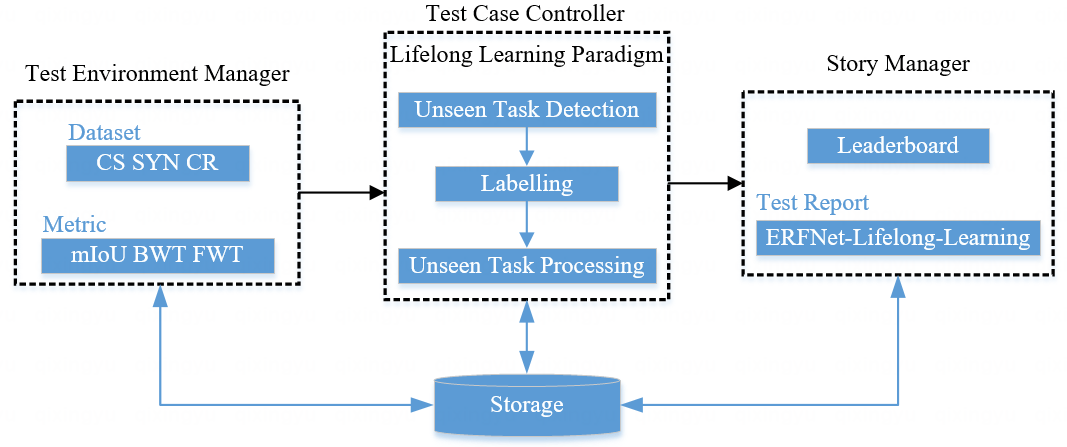
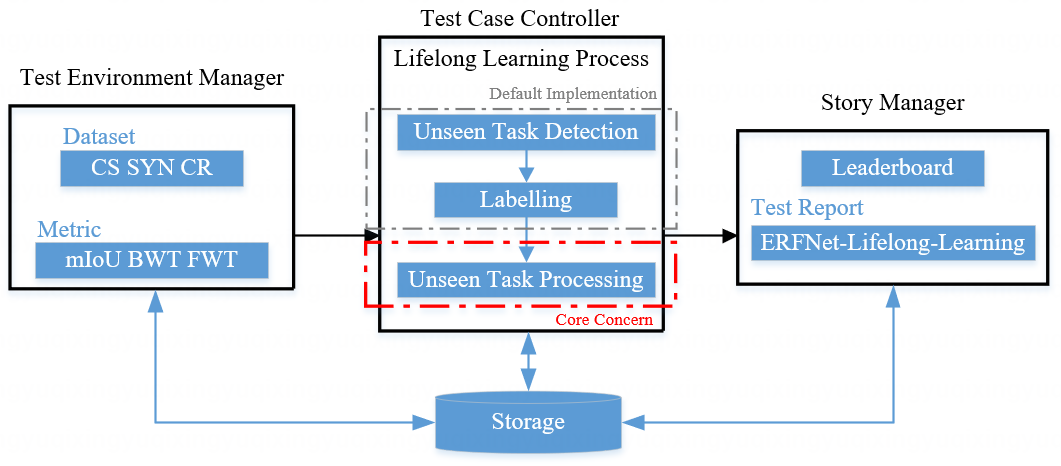
final version of proposal 	modified:   docs/proposals/algorithms/lifelong-learning/Implementation of a Class Incremental Learning Algorithm Evaluation System based on Ianvs.md 	modified:   docs/proposals/algorithms/lifelong-learning/images/OSPP_MDIL-SS_11.png 	modified:   docs/proposals/algorithms/l

Changed region(s): [[0.0, 0.0, 0.9953, 0.9888], [0.7776, 0.1163, 0.902, 0.1745]]

diff --git a/docs/proposals/algorithms/lifelong-learning/Implementation of a Class Incremental Learning Algorithm Evaluation System based on Ianvs.md b/docs/proposals/algorithms/lifelong-learning/Implementation of a Class Incremental Learning Algorithm Evaluation System based on Ianvs.md
@@ -60,29 +60,38 @@ Targeting users include
 
 ### 3.1 Overall Design
 
-The [diagram](https://github.com/kubeedge/sedna/blob/main/docs/proposals/lifelong-learning/unstructured-lifelong-learning.md) below shows the workflow of lifelong learning. The evaluation system developed in this project mainly aims at testing the ability of the model to process unknown tasks, namely the red box part.
 
+First, let's introduce the training process for lifelong learning: 
+- When the model enters a data domain (e.g., the Cloud-Robotic dataset) for training, the first step is `Unseen Task Detection`. This is done to assess the value of the domain data for updating the model. We consider that samples of unknown tasks have learning value, while samples from known tasks are not worth annotating and using for model training, meaning they provide no value for model updating. 
+- Once samples from unknown tasks are detected, in order to utilize these samples for model updating, we need to label them (through manual labelling or assisted labelling algorithms).
+- Finally, we utilize samples with `Unseen Task Processing`, which means updating the model using labelled samples from unseen tasks.
+- In summary, the workflow is `Unseen Task Detection -> Labeling -> Unseen Task Processing`.
 
-![MDIL-SS](images/OSPP_MDIL-SS_9.png )  
+Next, let's outline the class-incremental learning algorithm evaluating process for this project, as shown in the figure below:
 
-
-The scenario of this project is set as follows: 
-Lifelong learning model will be trained and tested on 3 data domains successively (namely Cityscapes, SYNTHIA, and Cloud-Robotics, overall 3 rounds of training-testing ). And when domain shifts, classes also changes. The figure below shows the specific classes in each domain.
+![MDIL-SS](images/OSPP_MDIL-SS_11.png)
+- In the first round, an ERFNet model initially enters the Synthia data domain for learning. As this is the model's first encounter with this data domain, all samples are considered as unseen task samples. We manually label all of these samples and utilize them for the model's first update, meaning that the model is trained using the Synthia dataset.
+- During the testing phase of the first round, we evaluate the model using samples from three data domains. One of the three domains is seen by the model, which is Synthia, while the other two domains are unseen to the model, namely Cityscapes and Cloud-Robotic.
+- Before the start of the second round of training, we manually detect and label all Cityscapes samples. Since unseen task detection and labeling are crucial for training effectiveness, we employ the most reliable method, which is manual way.
+- In the second round, the model is updated using the already labeled Cityscapes samples, meaning it is trained with the Cityscapes dataset.
+- Similarly, before commencing the final round of training, we manually detect and label all Cloud-Robotic samples. These samples are then used to update the model in the third round, where the model is trained on the Cloud-Robotic dataset.
+- In each round, we conduct testing using the same three datasets, and the final test report will demonstrate the model's lifelong learning capabilities.
+- Please note that the lifelong learning model will undergo training and testing across three successive data domains, namely Cityscapes, SYNTHIA, and Cloud-Robotics, comprising a total of three rounds of training and testing. As the model shifts among data domains, class also changes, signifying class increments. The following diagram illustrates the differences of classes among these three data domains.
 
 <div align = center>
 <img src="images/OSPP_MDIL-SS_10.png" width = "280" height = "500" alt="MDIL-SS"  />
 </div>
 
-When our model comes to a new domain, for using new-domain-samples to update our model, we need to carry out the workflow of `Unseen Task Detection -> Labelling -> Unseen Task Processing`. More specifically, samples are first recognized through Unseen Task Detection module. Then, the unseen samples will be transferred to the cloud for labelling (through manual labelling or assisted labelling algorithms). Finally, labelled unseen samples will be used for model training. 
+
+In this project, we have maintained a relatively default setup for Unseen Task Detection and Labelling. Our primary focus lies on the `Unseen Task Processing`, which corresponds to the red-boxed section in the ianvs lifelong learning architecture:
+
+![MDIL-SS](images/OSPP_MDIL-SS_9.png )  
+
+The architecture diagram for the project is as follows:
 
 ![MDIL-SS](images/OSPP_MDIL-SS_8.png)
 
-To provide precise labelled unseen samples to `Unseen Task Processing` module, we manually conduct `Unseen Task Detection` and `Labelling` in this project, and three datasets in `3.2` are the result of manual labor.
-
 All in all, we use the three class-different datasets to conduct training (i.e., Unseen Task Processing) and testing, and the core concern is to test the ability of the algorithm to update the model using labelled unseen samples (i.e., evaluating `Unseen Task Processing` ability).
-
-
-![MDIL-SS](images/OSPP_MDIL-SS_11.png)
 
 ### 3.2 Datasets
 
